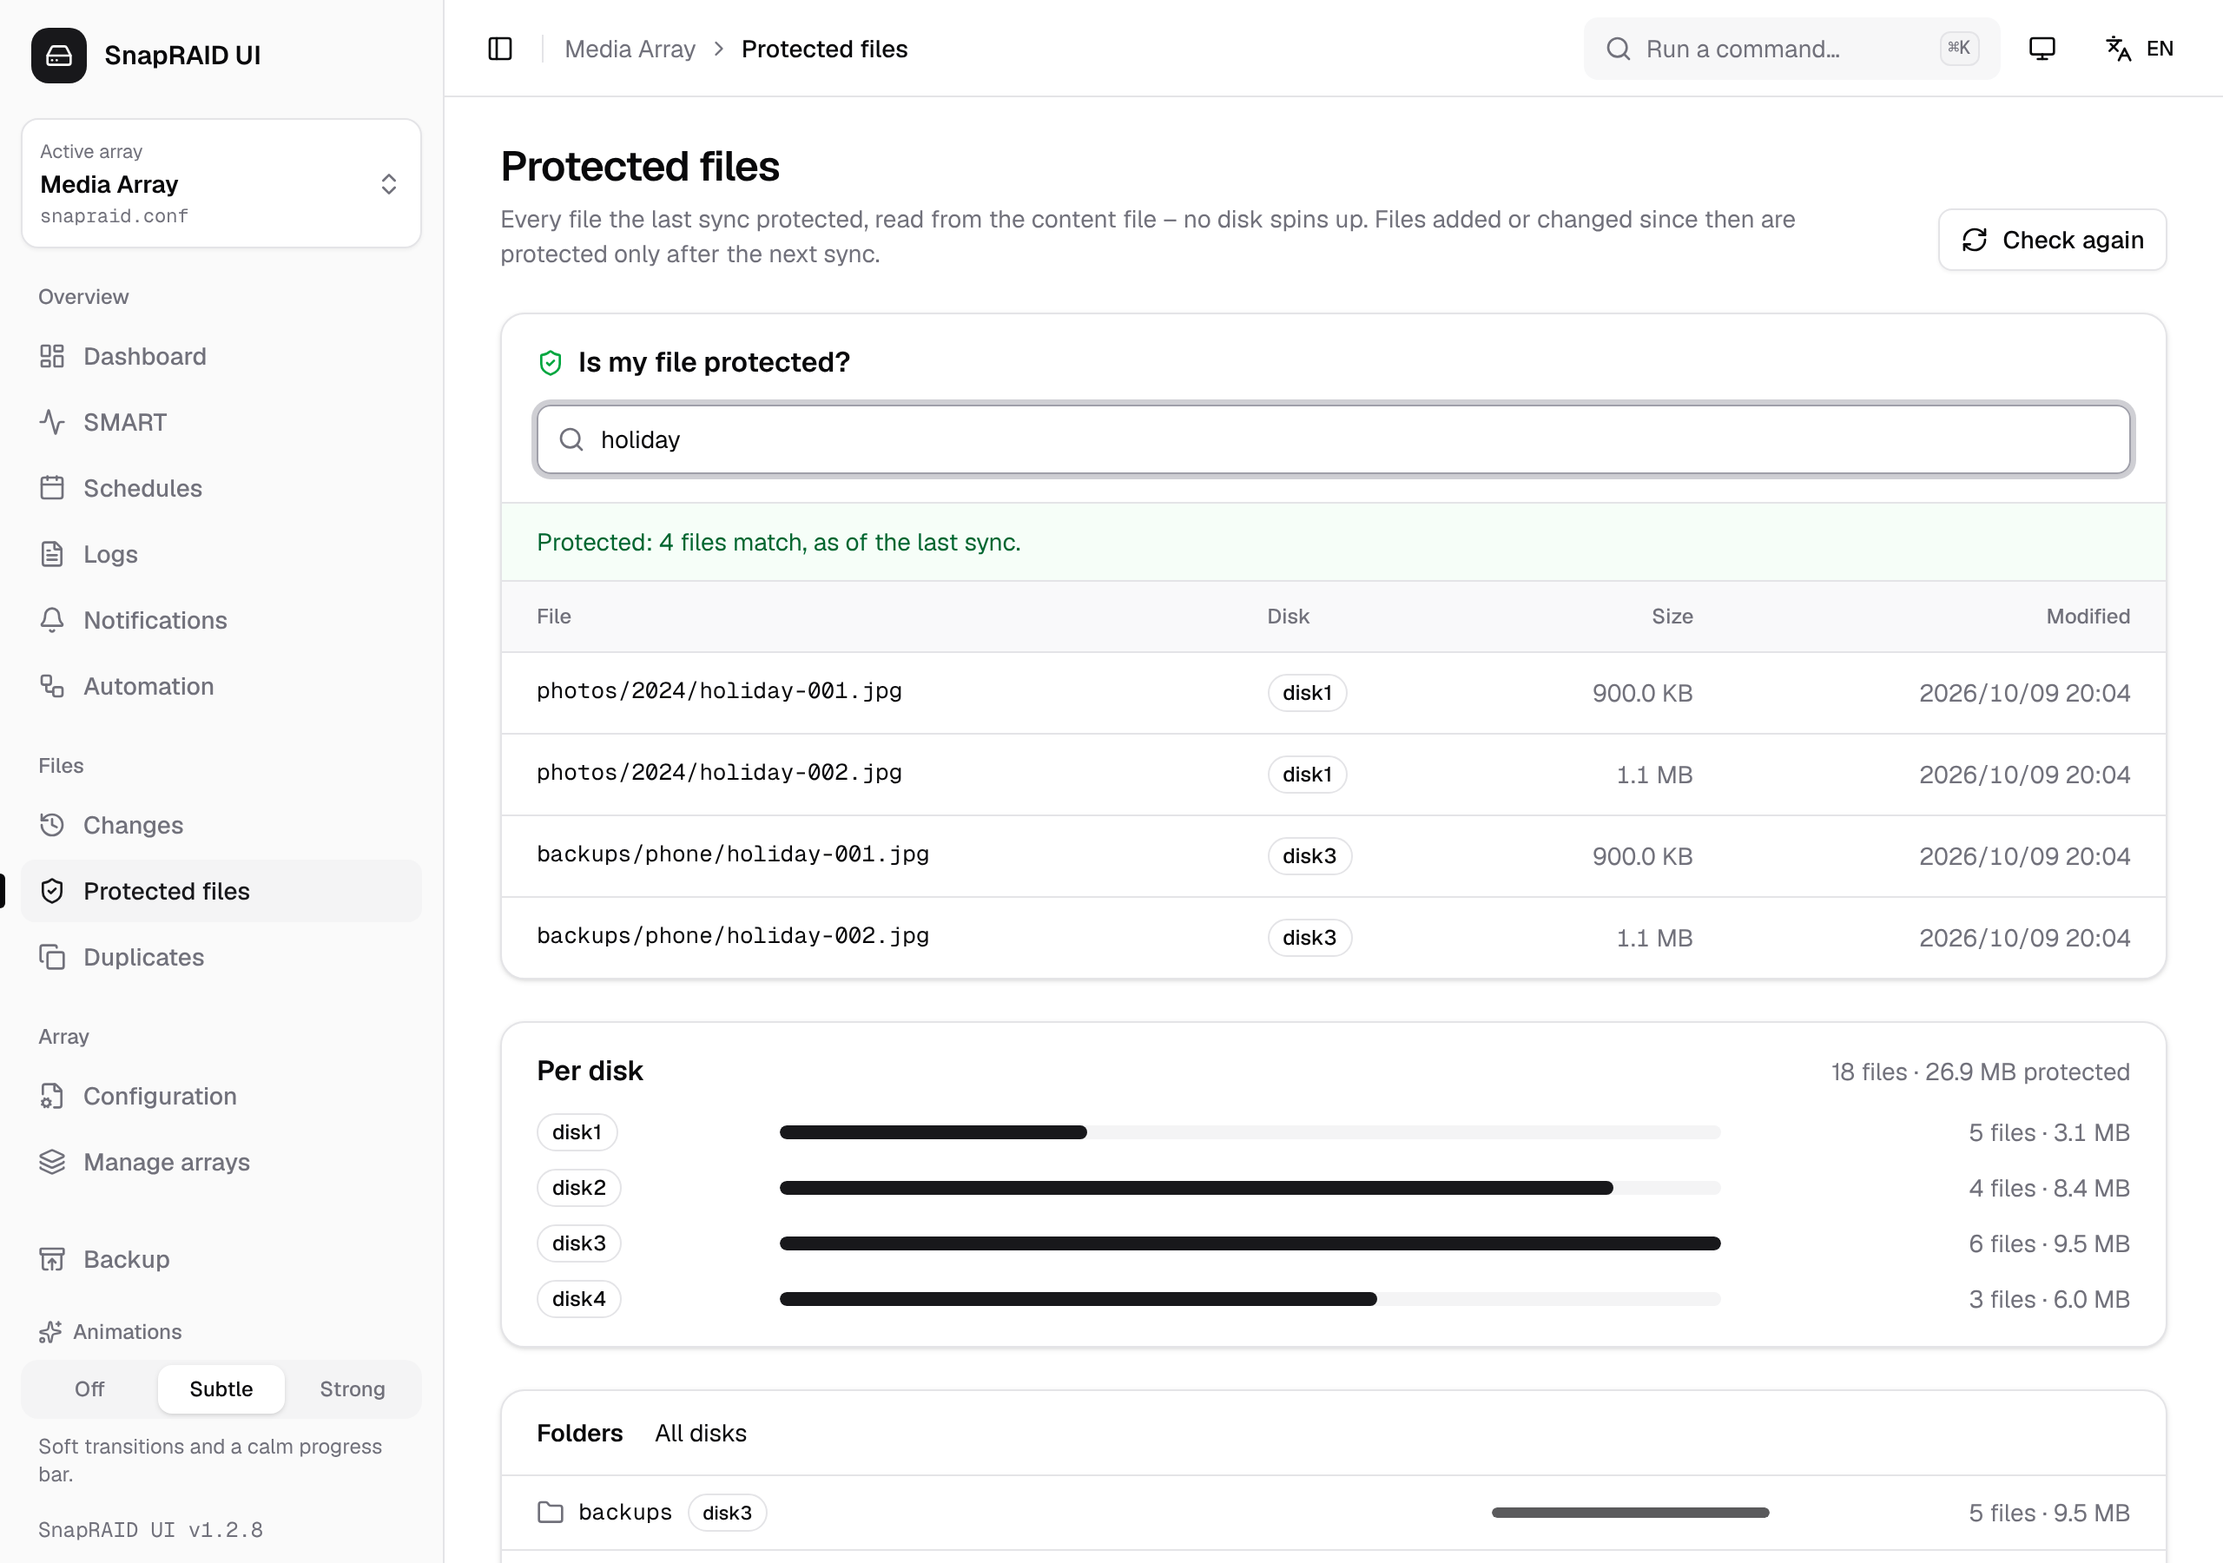
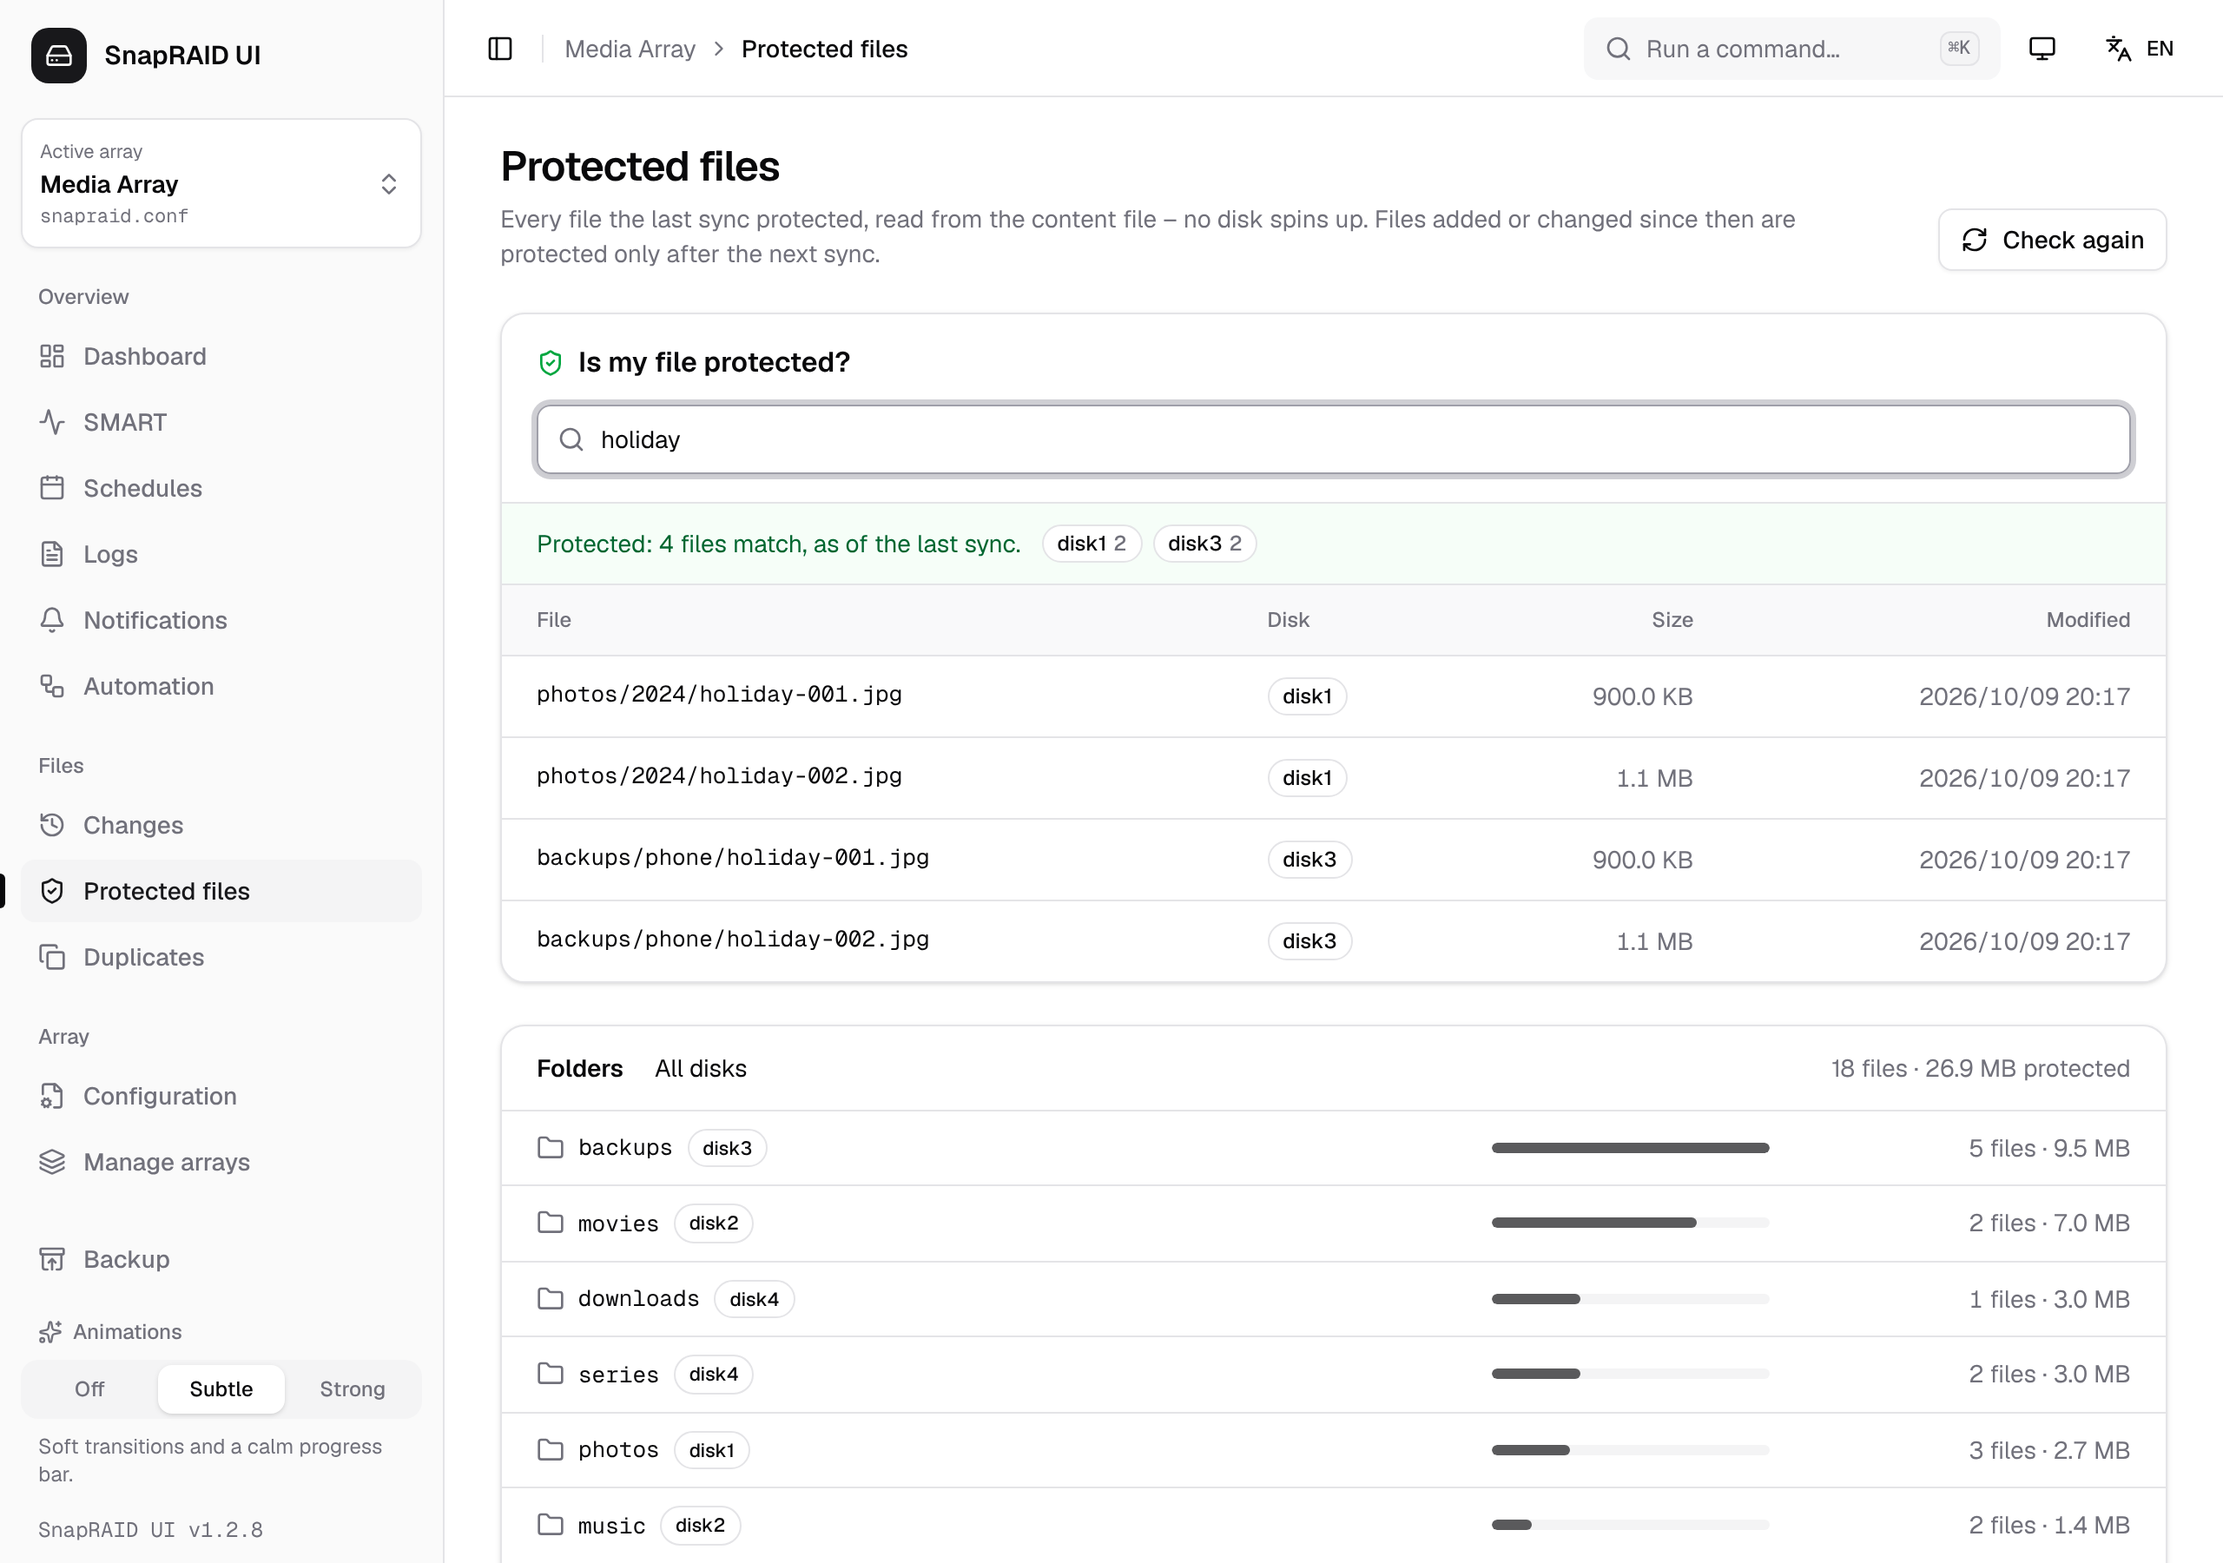
Protected files: the disks of the matches instead of a per-disk card
The per-disk totals repeated the dashboard's disks. The search now says
how many matches are on each disk (their size on hover), and the folders
header the total protected.

Claude-Session: https://claude.ai/code/session_01JuXnquCPdbG5sBbDyin7yF

diff --git a/frontend/src/routes/files.tsx b/frontend/src/routes/files.tsx
@@ -32,12 +32,7 @@ import {
 import { useJob } from '../hooks/useJob'
 import { useSelectedConfig } from '../hooks/useSelectedConfig'
 import { getFileList } from '../lib/api/snapraid'
-import {
-  diskTotals,
-  folderTrail,
-  folderView,
-  searchFiles,
-} from '../lib/protected-files'
+import { folderTrail, folderView, searchFiles } from '../lib/protected-files'
 import { cn, formatBytes } from '../lib/utils'
 import * as m from '../paraglide/messages'
 import { getLocale } from '../paraglide/runtime'
@@ -157,7 +152,6 @@ function FilesContent({
     () => searchFiles(files, deferredSearch, MAX_ROWS),
     [files, deferredSearch],
   )
-  const disks = useMemo(() => diskTotals(files), [files])
   const view = useMemo(() => folderView(files, folder), [files, folder])
   const number = (value: number) => value.toLocaleString(getLocale())
 
@@ -170,7 +164,6 @@ function FilesContent({
     )
   }
 
-  const largestDisk = Math.max(...disks.map((disk) => disk.bytes), 1)
   const largestFolder = Math.max(...view.folders.map((f) => f.bytes), 1)
 
   return (
@@ -207,55 +200,37 @@ function FilesContent({
             </div>
           ) : (
             <>
-              <p className="border-t bg-green-50/60 px-5 py-3 text-sm text-green-800">
-                {found.total > found.matches.length
-                  ? m.files_found_more({
-                      count: number(found.total),
-                      shown: number(found.matches.length),
-                    })
-                  : m.files_found({ count: number(found.total) })}
-              </p>
+              <div className="flex flex-wrap items-center gap-x-3 gap-y-2 border-t bg-green-50/60 px-5 py-3 text-sm text-green-800">
+                <span>
+                  {found.total > found.matches.length
+                    ? m.files_found_more({
+                        count: number(found.total),
+                        shown: number(found.matches.length),
+                      })
+                    : m.files_found({ count: number(found.total) })}
+                </span>
+                {/* Where the matches are, all of them */}
+                <span className="flex flex-wrap gap-1.5">
+                  {found.disks.map((disk) => (
+                    <Badge
+                      key={disk.disk}
+                      variant="outline"
+                      className="bg-card"
+                      title={formatBytes(disk.bytes)}
+                    >
+                      {disk.disk || '–'}
+                      <span className="text-muted-foreground tabular-nums">
+                        {number(disk.files)}
+                      </span>
+                    </Badge>
+                  ))}
+                </span>
+              </div>
               <div className="border-t">
                 <FileTable files={found.matches} showPath />
               </div>
             </>
           ))}
-      </Card>
-
-      <Card className="gap-3 px-5 py-4">
-        <div className="flex flex-wrap items-baseline justify-between gap-2">
-          <h2 className="font-semibold">{m.files_disks_title()}</h2>
-          <span className="text-sm text-muted-foreground">
-            {m.files_summary({
-              files: number(files.length),
-              size: formatBytes(totalSize),
-            })}
-          </span>
-        </div>
-        <div className="flex flex-col gap-2.5">
-          {disks.map((disk) => (
-            <div
-              key={disk.disk}
-              className="grid grid-cols-[6rem_1fr] items-center gap-3 sm:grid-cols-[8rem_1fr_14rem]"
-            >
-              <Badge variant="outline" className="justify-self-start">
-                {disk.disk || '–'}
-              </Badge>
-              <div className="h-2 overflow-hidden rounded-full bg-muted">
-                <div
-                  className="h-full rounded-full bg-primary"
-                  style={{ width: `${(disk.bytes / largestDisk) * 100}%` }}
-                />
-              </div>
-              <span className="col-span-2 text-sm text-muted-foreground tabular-nums sm:col-span-1 sm:text-right">
-                {m.changes_folder_total_size({
-                  count: number(disk.files),
-                  size: formatBytes(disk.bytes),
-                })}
-              </span>
-            </div>
-          ))}
-        </div>
       </Card>
 
       <Card className="gap-0 overflow-hidden py-0">
@@ -283,6 +258,12 @@ function FilesContent({
               </button>
             </span>
           ))}
+          <span className="ml-auto text-muted-foreground">
+            {m.files_summary({
+              files: number(files.length),
+              size: formatBytes(totalSize),
+            })}
+          </span>
         </nav>
         {view.folders.map((entry) => (
           <button

diff --git a/e2e/tests/files.spec.ts b/e2e/tests/files.spec.ts
@@ -56,7 +56,7 @@ test('duplicates: the chosen copy stays, a copy changed since the sync is left a
   await expect(page.getByRole('tab', { name: /Deleted\s*2/ })).toHaveAttribute('aria-selected', 'true')
 })
 
-test('protected files: search, disks and folders as of the last sync', async ({ page, app }) => {
+test('protected files: search with the disks of the matches, and folders, as of the last sync', async ({ page, app }) => {
   const array = await createArray('protected')
   // Added after the sync: not protected yet
   await array.writeFile('d1', 'photos/new.jpg', 10)
@@ -64,11 +64,16 @@ test('protected files: search, disks and folders as of the last sync', async ({ 
 
   await page.goto('/files')
   await expect(page.getByText('5 files · 1.1 MB protected')).toBeVisible()
-  await expect(page.getByText('3 files · 580.0 KB')).toBeVisible()
 
   const search = page.getByLabel('Is my file protected?')
   await search.fill('HOLIDAY')
   await expect(page.getByText('Protected: 1 files match')).toBeVisible()
+  // The disk of the matches, with their size on hover
+  await expect(page.getByTitle('300.0 KB')).toHaveText('d11')
+  await search.fill('.')
+  await expect(page.getByTitle('580.0 KB')).toHaveText('d13')
+  await expect(page.getByTitle('550.0 KB')).toHaveText('d22')
+  await search.fill('HOLIDAY')
   await expect(page.getByRole('row', { name: /photos\/holiday\.jpg d1 300\.0 KB/ })).toBeVisible()
   await search.fill('photos/new.jpg')
   await expect(page.getByText('No protected file matches.')).toBeVisible()

diff --git a/frontend/src/lib/protected-files.ts b/frontend/src/lib/protected-files.ts
@@ -84,23 +84,24 @@ export const diskTotals = (files: SnapRaidFileInfo[]): DiskTotal[] => {
 }
 
 /**
- * Files whose path contains the search, case-insensitive; at most `limit`, and how many match
+ * Files whose path contains the search, case-insensitive: at most `limit` of them, how many
+ * match, and on which disks they are
  */
 export const searchFiles = (
   files: SnapRaidFileInfo[],
   search: string,
   limit: number,
-): { matches: SnapRaidFileInfo[]; total: number } => {
+): { matches: SnapRaidFileInfo[]; total: number; disks: DiskTotal[] } => {
   const needle = search.trim().toLowerCase().replace(/^\/+/, '')
-  if (!needle) return { matches: [], total: 0 }
-  const matches: SnapRaidFileInfo[] = []
-  let total = 0
-  for (const file of files) {
-    if (!pathOf(file).toLowerCase().includes(needle)) continue
-    total++
-    if (matches.length < limit) matches.push(file)
+  if (!needle) return { matches: [], total: 0, disks: [] }
+  const all = files.filter((file) =>
+    pathOf(file).toLowerCase().includes(needle),
+  )
+  return {
+    matches: all.slice(0, limit),
+    total: all.length,
+    disks: diskTotals(all),
   }
-  return { matches, total }
 }
 
 /**

diff --git a/frontend/src/lib/__tests__/protected-files.test.ts b/frontend/src/lib/__tests__/protected-files.test.ts
@@ -68,13 +68,22 @@ describe('diskTotals', () => {
 })
 
 describe('searchFiles', () => {
-  it('finds paths case-insensitively, a leading slash or not, up to the limit', () => {
+  it('finds paths case-insensitively, a leading slash or not, up to the limit, with their disks', () => {
     expect(searchFiles(FILES, 'MKV', 2)).toEqual({
       matches: [FILES[0], FILES[1]],
       total: 3,
+      // Of every match, not only the ones shown
+      disks: [
+        { disk: 'd1', files: 2, bytes: 750 },
+        { disk: 'd2', files: 1, bytes: 300 },
+      ],
     })
     expect(searchFiles(FILES, '/photos/2026', 10).total).toBe(1)
-    expect(searchFiles(FILES, '  ', 10)).toEqual({ matches: [], total: 0 })
+    expect(searchFiles(FILES, '  ', 10)).toEqual({
+      matches: [],
+      total: 0,
+      disks: [],
+    })
     expect(searchFiles(FILES, 'nothing', 10).total).toBe(0)
   })
 })

diff --git a/docs/development.md b/docs/development.md
@@ -162,7 +162,7 @@ The test adds files to the array's first data disk. In `snapraidd.conf` set `net
 | `schedules.spec.ts` | The nightly routine (touch, sync, scrub) created in the form and started with *Run now*; a scheduled sync skipped while a disk is empty (not mounted), the dashboard shows *Disk not available*; a sync skipped for mass changes, as ransomware leaves them; *Skip next run* and taking it back |
 | `setup.spec.ts` | The setup wizard after a first start: disks picked, the configuration written and synced, the placeholder entry replaced; a setup without parity or with a too small parity disk refused |
 | `changes.spec.ts` | *Changes*: a deleted file and an encrypted one restored byte for byte, the old `/recovery` address leading there; a file of the same path on another disk left alone; restored files and a recreated folder get the owner and permissions of their folder, not `root` and `600`; new files with their folder totals and a moved file listed, *Start sync* opening the sync preview; *Diff* in the commands menu leading to the page |
-| `files.spec.ts` | *Duplicates*: the copy chosen by path or by hand stays, the others are deleted, a copy changed since the sync is left alone with its reason, deleted copies drop out of the list and show up as deleted; *Protected files*: search (a file added after the sync is not found), totals per disk, opening a folder |
+| `files.spec.ts` | *Duplicates*: the copy chosen by path or by hand stays, the others are deleted, a copy changed since the sync is left alone with its reason, deleted copies drop out of the list and show up as deleted; *Protected files*: search with the disks of the matches (a file added after the sync is not found), opening a folder |
 | `smart.spec.ts` | SMART self-tests on the SMART page: a short test followed to *Passed* in the disk's log, a long one stopped; `smartctl` is a stand-in (`harness/bin/smartctl`), there are no disks to test |
 | `replace.spec.ts` | A failed data disk replaced in the wizard: its files come back from parity onto an empty disk, owned like the same folders on the other disk |
 | `home-assistant.spec.ts` | Home Assistant set up in the UI against an MQTT broker in the test: discovery and state arrive, the Scrub and Sync buttons run their jobs |

diff --git a/docs/usage.md b/docs/usage.md
@@ -252,9 +252,8 @@ When a sync schedule of this configuration is enabled, a notice says when it run
 
 <img src="screenshots/protected-files.png" alt="Protected files with a search" width="900">
 
-- **Is my file protected?** Type a file name or part of the path (not case sensitive). The matching files are listed with disk, size and modification time, the first 200 of them. A file that is not found was added after the last sync, or is excluded in the config; *Show new files* opens the *New* tab of [Changes](#changes-since-the-last-sync).
-- **Per disk**: files and bytes of each data disk, as a bar.
-- **Folders**: the folders of all disks merged, as a pool would show them, the biggest first, with the disks that hold each one, its files and size. Click a folder to open it, the path above leads back.
+- **Is my file protected?** Type a file name or part of the path (not case sensitive). The matching files are listed with disk, size and modification time, the first 200 of them; above them, how many match and how many of them are on each disk (hover for their size). A file that is not found was added after the last sync, or is excluded in the config; *Show new files* opens the *New* tab of [Changes](#changes-since-the-last-sync).
+- **Folders**: the folders of all disks merged, as a pool would show them, the biggest first, with the disks that hold each one, its files and size. Click a folder to open it, the path above leads back. On the right, how many files and bytes the last sync protected in all.
 
 ### Duplicates
 

diff --git a/README.md b/README.md
@@ -55,7 +55,7 @@ remembering the right flags. SnapRAID UI puts all of it in one place:
 - Changes since the last sync at a glance: new files with folder sizes, deleted, changed and moved ones
 - Repair and verify bad blocks with one click
 - Recover deleted or encrypted files from parity, picked from a list, with the owner and permissions of their folder
-- "Is my file protected?": search the protected files, sizes per folder and disk
+- "Is my file protected?": search the protected files and see which disk they are on, sizes per folder
 - Duplicates: choose the copy that stays, the others are deleted safely
 - Live output while a job runs
 - Clear explanations when SnapRAID stops a run for safety
